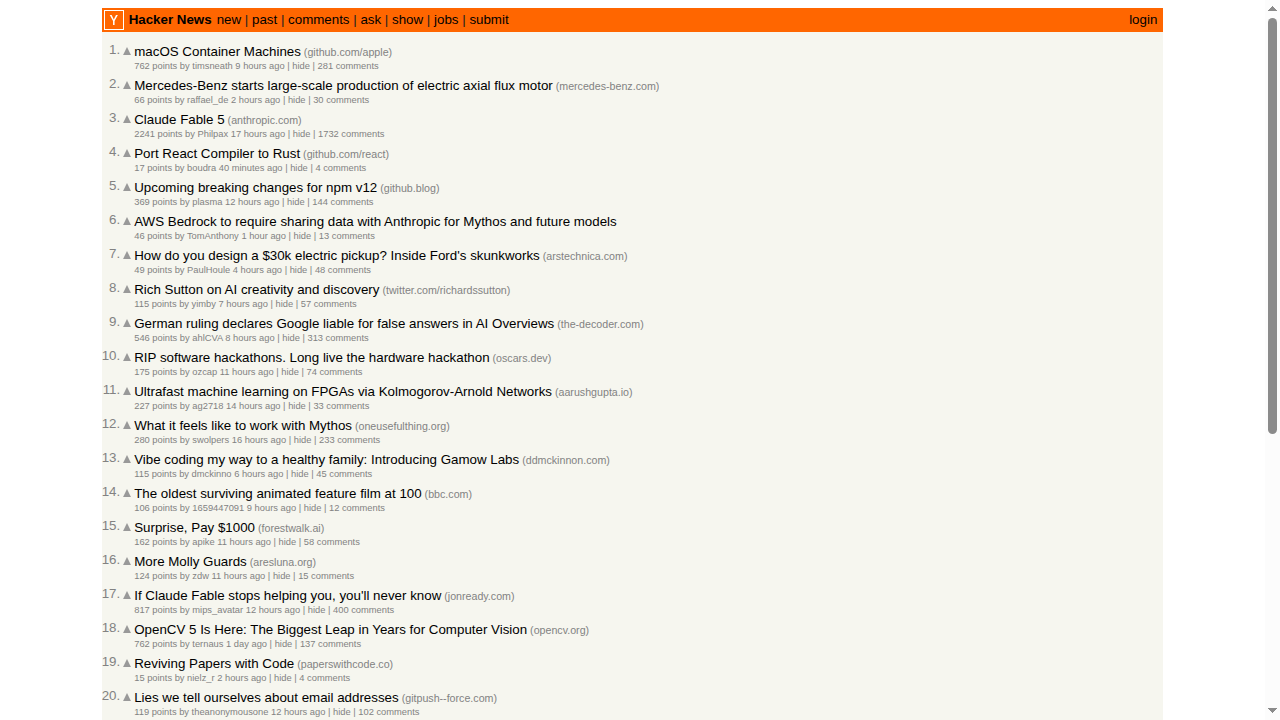
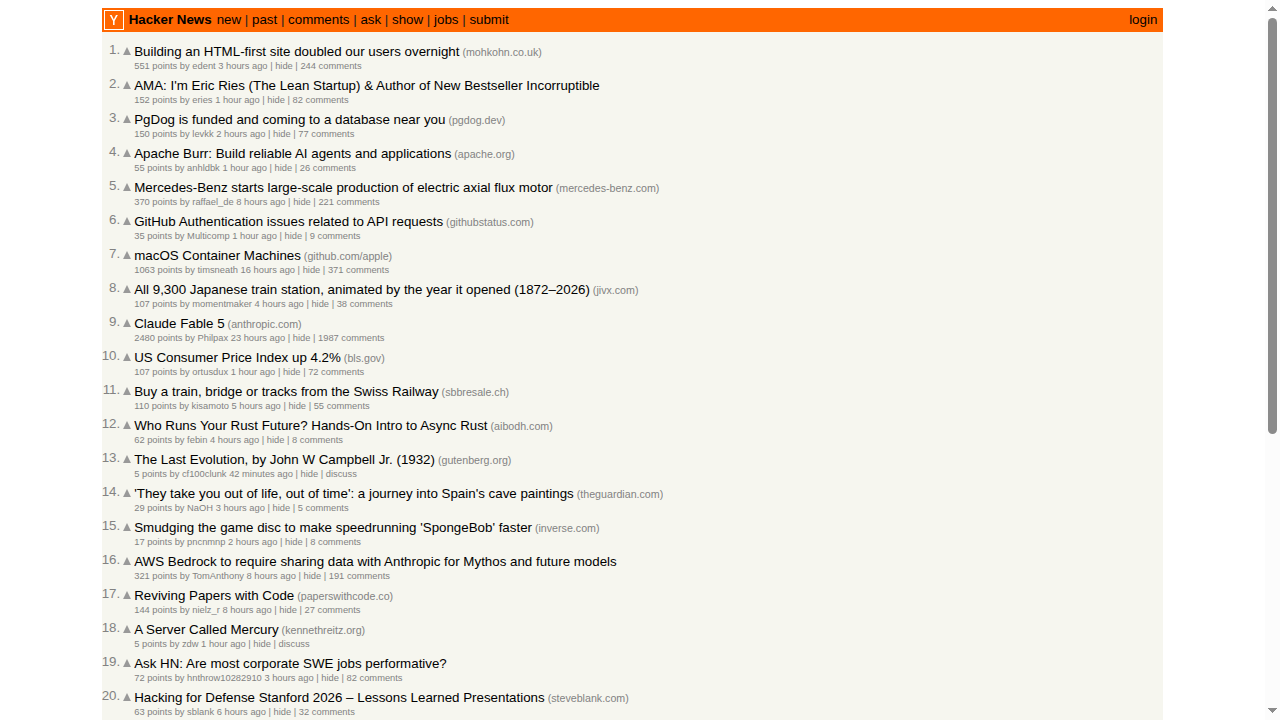
fun2

Changed region(s): [[0.0938, 0.0611, 0.5312, 1.0]]

diff --git a/src/index.ts b/src/index.ts
@@ -58,16 +58,15 @@ const fun2 = async () => {
     }
   });
 
-  await page.goto(
-    "https://www.amazon.in/s?k=nike+shoes&page=2&xpid=C3wmQJYBzQx3B",
-  );
+  //
   await page.waitForTimeout(60000);
 
   await browser.close();
 };
+
 const main = async () => {
-  // await fun1();
-  await fun2();
+  await fun1();
+  // await fun2();
 };
 
 main();